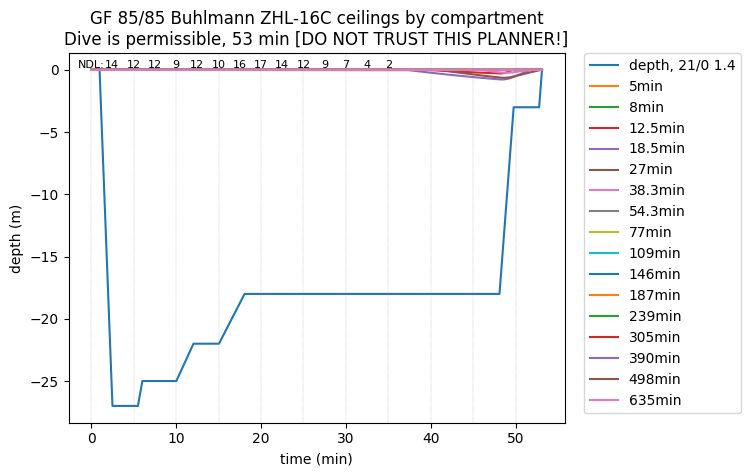
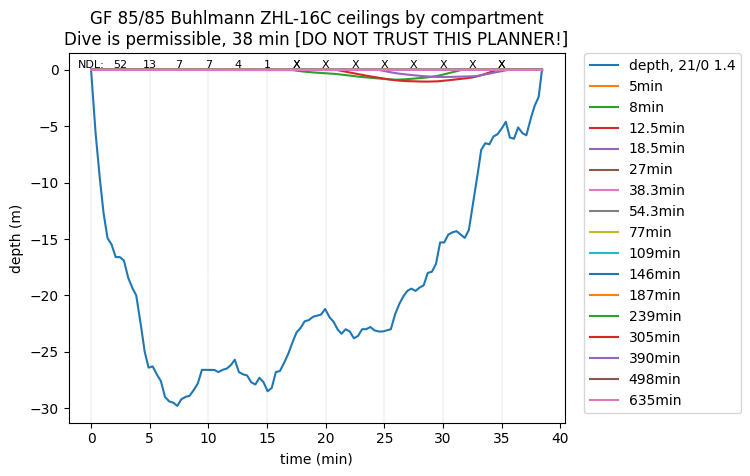
fix NDL & some dive actions. Real dive example added

diff --git a/planner.py b/planner.py
@@ -12,7 +12,7 @@ trimix_15_55 = Gas(oxygen=15, helium=55, ppo2=1.2)
 trimix_12_65 = Gas(oxygen=12, helium=65, ppo2=1.2)
 
 class ChangeDepth():
-    def __init__(self, depth, available_gases, time_min=None, time_s=None, speed_mm=9) -> None:
+    def __init__(self, depth, available_gases=None, time_min=None, time_s=None, speed_mm=9) -> None:
         self.depth = depth
         if time_min:
             self.time_s = time_min*60
@@ -97,8 +97,8 @@ class SafetyStop():
     def get_new_checkpoints(self, dive_checkpoints):
         prev_checkpoint = dive_checkpoints[-1]
         checkpoint_1 = ChangeDepth(self.depth, speed_mm=self.speed_ms*60).get_new_checkpoints(dive_checkpoints)
-        checkpoint_2 = MaintainDepth(time_s=self.time_s).get_new_checkpoints([*dive_checkpoints, checkpoint_1])
-        return [checkpoint_1, checkpoint_2]
+        checkpoint_2 = MaintainDepth(time_s=self.time_s).get_new_checkpoints([*dive_checkpoints, *checkpoint_1])
+        return [*checkpoint_1, checkpoint_2]
     
 class AscendDirectly():
     def __init__(self, time_min=None, time_s=None, speed_mm=9) -> None:
@@ -114,7 +114,7 @@ class AscendDirectly():
     
     def get_new_checkpoints(self, dive_checkpoints):
         prev_checkpoint = dive_checkpoints[-1]
-        return ChangeDepth(depth=0, time_s=self.time_s, speed_mm=self.speed_ms*60).get_new_checkpoint(dive_checkpoints)
+        return ChangeDepth(depth=0, time_s=self.time_s, speed_mm=self.speed_ms*60).get_new_checkpoints(dive_checkpoints)
 
 class GetMeHome():
     def __init__(self, algorithm, available_gases=[air]) -> None:
@@ -178,24 +178,38 @@ def process_diveplan(dive_plan, initial_gas):
 buhlmann = Buhlmann_Z16C(gf=85)
 all_gases=[air_tec, eanx32, deco_eanx50, deco_oxygen, trimix_12_65, trimix_15_55, trimix_18_45]
 rec_gases = [air, eanx32]
-dive_plan = [
-    SwitchGas(gas=air),
-    ChangeDepth(depth=27, speed_mm=18, available_gases=[air]),
-    MaintainDepth(time_min=3),
-    ChangeDepth(depth=25, speed_mm=4, available_gases=[air]),
-    MaintainDepth(time_min=4),
-    ChangeDepth(depth=22, time_min=2, available_gases=[air]),
-    # SwitchGas(gas=trimix_12_65),
-    # ChangeDepth(depth=65, speed_mm=18, available_gases=available_gases),
-    # ChangeDepth(depth=55, available_gases=[air], speed_mm=18),
-    # SwitchGas(gas=trimix_12_65),
-    MaintainDepth(time_min=3),
-    ChangeDepth(depth=18, time_min=3, available_gases=[air]),
-    MaintainDepth(time_min=30),
-    GetMeHome(algorithm=buhlmann, available_gases=[air])
-    # SafetyStop(),
-    # AscendDirectly()
+# dive_plan = [
+#     SwitchGas(gas=air),
+#     ChangeDepth(depth=27, speed_mm=18, available_gases=[air]),
+#     MaintainDepth(time_min=3),
+#     ChangeDepth(depth=25, speed_mm=4, available_gases=[air]),
+#     MaintainDepth(time_min=4),
+#     ChangeDepth(depth=22, time_min=2, available_gases=[air]),
+#     # SwitchGas(gas=trimix_12_65),
+#     # ChangeDepth(depth=65, speed_mm=18, available_gases=available_gases),
+#     # ChangeDepth(depth=55, available_gases=[air], speed_mm=18),
+#     # SwitchGas(gas=trimix_12_65),
+#     MaintainDepth(time_min=28),
+#     # ChangeDepth(depth=18, time_min=3, available_gases=[air]),
+#     # MaintainDepth(time_min=29),
+#     # GetMeHome(algorithm=buhlmann, available_gases=[air])
+#     SafetyStop(),
+#     AscendDirectly()
+# ]
+
+def make_dive_actions_from_list(l, s=20):
+    return [[ChangeDepth(depth=d, time_s=s) for d in l], AscendDirectly()]
+
+depth_list = [
+    5.2,9.2,12.6,14.9,15.5,16.6,16.6,16.9,18.4,19.3,20,22.3,24.9,26.4,26.3,27,27.6,29,
+    29.4,29.5,29.8,29.2,29,28.9,28.4,27.8,26.6,26.6,26.6,26.6,26.8,26.6,26.5,26.2,25.7,
+    26.8,27,27.1,27.7,27.9,27.3,27.7,28.5,28.2,26.8,26.7,26,25.2,24.2,23.3,22.9,22.3,
+    22.2,21.9,21.8,21.7,21.2,21.9,22.3,23,23.4,23,23.2,23.8,23.6,23,23,22.8,23.1,23.2,
+    23.2,23.1,23,21.7,20.8,20.1,19.6,19.4,19.6,19.3,19.1,18,17.9,17.2,15.3,15.3,14.6,
+    14.4,14.3,14.6,14.9,14.2,11.9,9.6,7.1,6.5,6.6,5.9,5.7,5.2,4.6,6,6.1,5.1,5.6,5.8,
+    4.4,3.2,2.4
 ]
+dive_plan = make_dive_actions_from_list(depth_list)
 
 dive_checkpoints = process_diveplan(dive_plan, air)
 dive = DiveProfile(checkpoints=dive_checkpoints)

diff --git a/deco.py b/deco.py
@@ -244,14 +244,18 @@ class BuhlmannCompartmentState:
         adjusted_m_value_slope = m_value_slope*(gf_prop) + (1-gf_prop)  # weighted average of M-value slope and equilibrium
         adjusted_surfacing_m_value_bar = (surfacing_m_value_bar - 1) * gf_prop + 1
         if inhaled_ppn2 == ppn2:
-            return 99
+            # equilibrium, NDL infinite
+            return 999
+        if inhaled_ppn2 < ppn2:
+            # off gassing, NDL infinite
+            return 999
         ratio=(inhaled_ppn2 - adjusted_surfacing_m_value_bar)/(inhaled_ppn2 - ppn2)
         if ratio<=0:
-            return 99
-        if inhaled_ppn2 < ppn2:
-            return 99
+            # m_value > inhaled but ppn2 < inhaled. So on gassing but never hit m-value, NDL infinite
+            return 999
         ndl = (-compartment.half_time_min/(np.log(2)))*np.log(ratio)
-        return 99 if np.isnan(ndl) else ndl
+        # return 99 if np.isnan(ndl) else ndl
+        return ndl
 
     def __repr__(self) -> str:
         return "halftime is " + str(self.compartment) + " ppN2 is " + str(self.ppn2)
@@ -368,8 +372,15 @@ def graph_buhlmann_dive_profile(dive: DiveProfile, buhlmann: Buhlmann_Z16C):
             ndl = min(ndls)
             # print(ndl)
             ceiling = max([compartment.ceiling for compartment in checkpoint.state])
-            if ndl > 0 and checkpoint.time > 0 and not ceiling:
+            if ndl >= 0 and ndl < 100 and checkpoint.time > 0 and not ceiling:
                 plt.annotate(ndl,
+                        xy=(checkpoint.time/60, 0), xycoords='data',
+                        xytext=(0, 0), textcoords='offset points',
+                        horizontalalignment='center', verticalalignment='bottom',
+                        fontsize=8)
+                plot_ndl = True
+            elif ceiling:
+                plt.annotate('X',
                         xy=(checkpoint.time/60, 0), xycoords='data',
                         xytext=(0, 0), textcoords='offset points',
                         horizontalalignment='center', verticalalignment='bottom',
